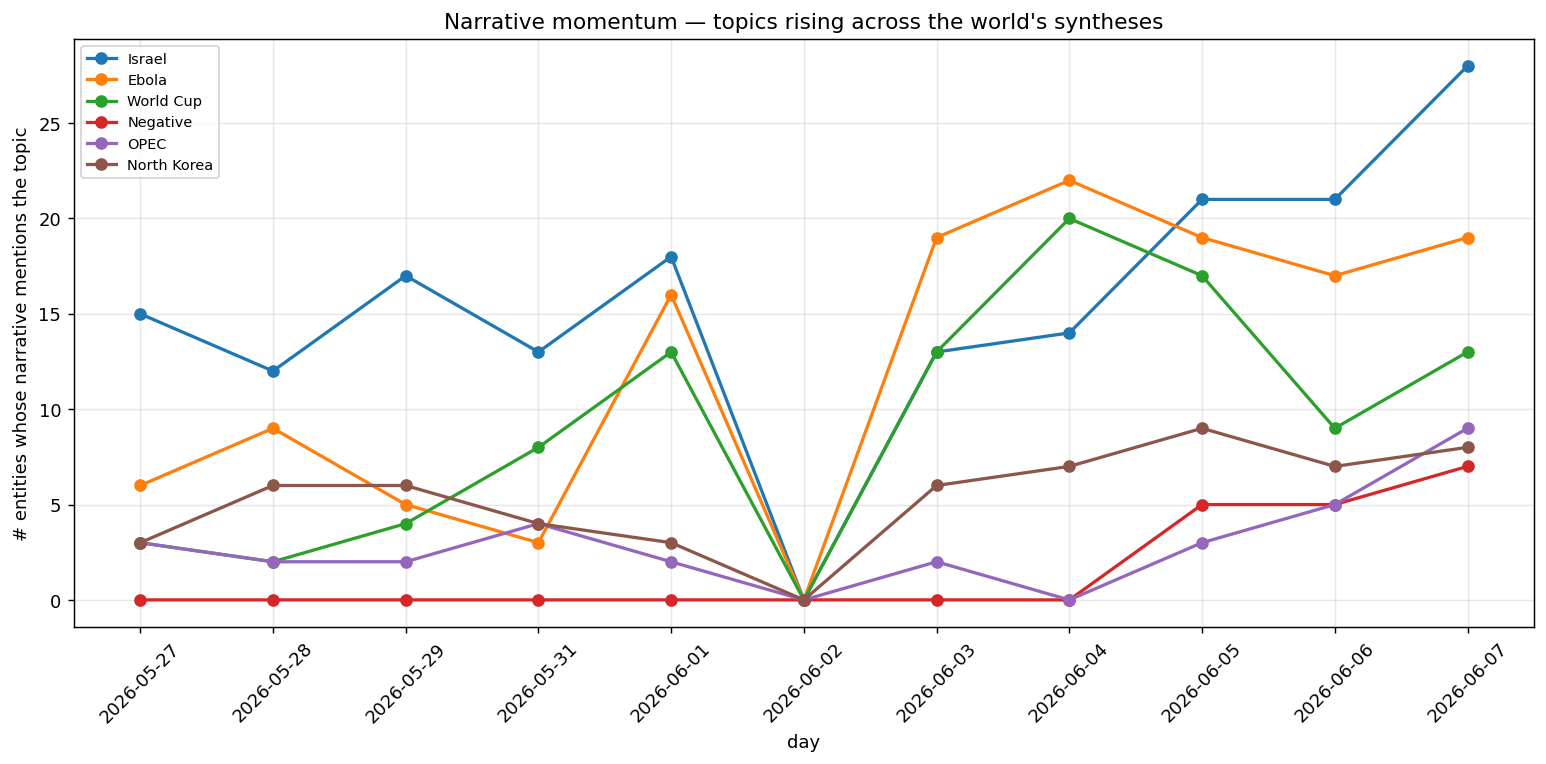
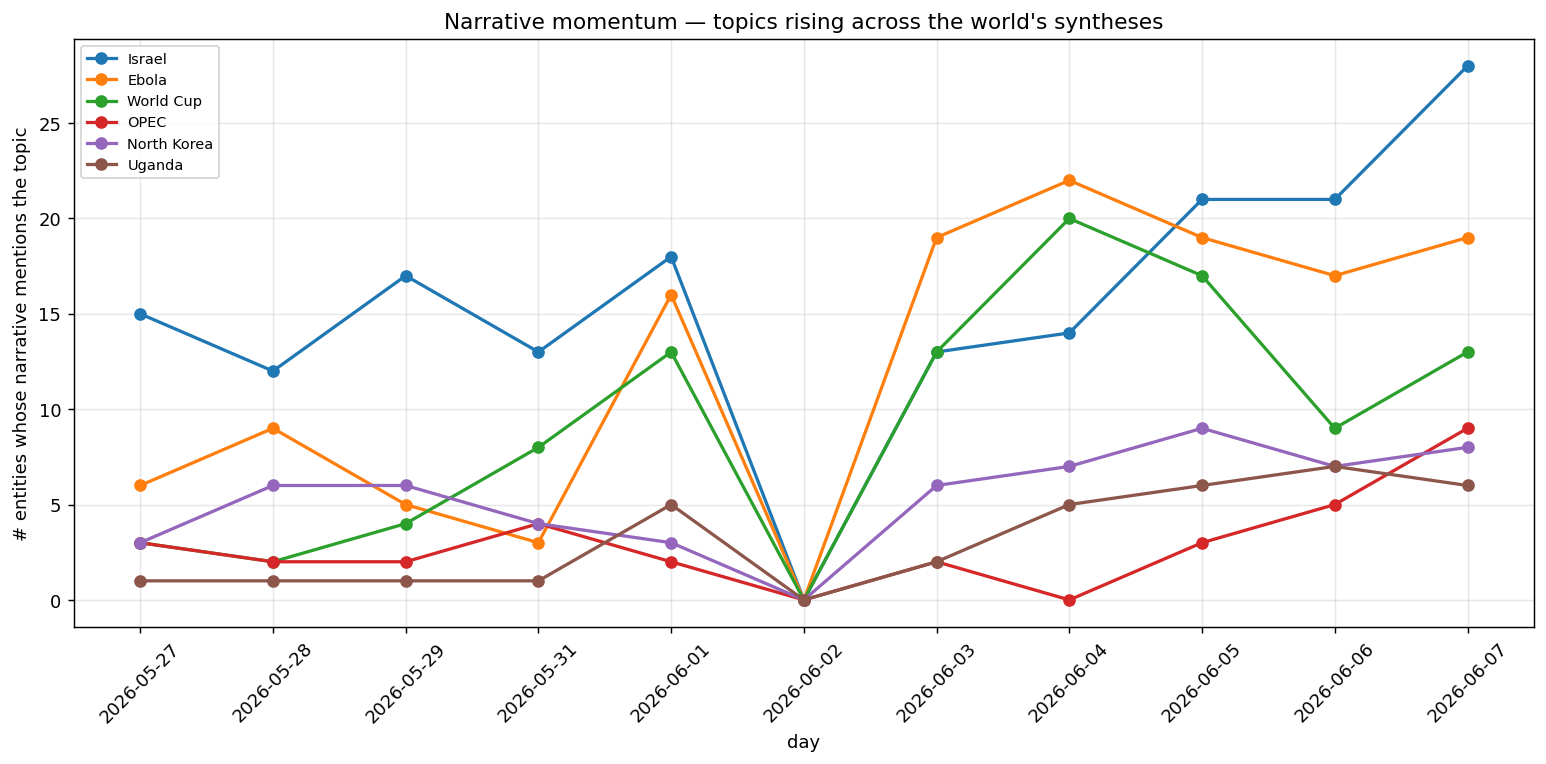
feat: emerging-signals board — denoised, surprise-ranked breakout detector
Answers "I can't see the information": stop showing everything, surface the few
genuine breakouts. emerging_signals() ranks topics that were ~absent early
(baseline of first 3 days) and surged (last 2 days), with breakout day,
trajectory sparkline and which narratives carry them now. Expanded the noise
stoplist (abstract/common nouns) so the list is clean.

It's the new headline tab of the narrative dashboard (a scannable card board) and
the first console section. Surfaces the Africa health cluster (Uganda/WHO/Central
Africa/DR Congo — the Ebola story), the 06-07 OPEC surge, the Gulf widening
(Bahrain), and the Ukraine nuclear-site angle (Zaporizhzhia) — short and legible.

diff --git a/examples/narrative_evolution.py b/examples/narrative_evolution.py
@@ -104,6 +104,43 @@ GENERIC = {
     "Eastern",
     "Northern",
     "Southern",
+    # abstract / common nouns that are noise as "topics"
+    "Negative",
+    "Positive",
+    "Protests",
+    "Violence",
+    "Talks",
+    "Concerns",
+    "Warning",
+    "Warnings",
+    "Report",
+    "Reports",
+    "Statement",
+    "Rising",
+    "Major",
+    "Significant",
+    "Key",
+    "Recent",
+    "Ongoing",
+    "Potential",
+    "Global",
+    "World",
+    "Crisis",
+    "Conflict",
+    "Attack",
+    "Attacks",
+    "Strikes",
+    "Deal",
+    "Summit",
+    "Dialogue",
+    "Meeting",
+    "Forces",
+    "Officials",
+    "Government",
+    "Military",
+    "Economy",
+    "Markets",
+    "Day",
 }
 _TOKEN = re.compile(r"\b(?:[A-Z][a-z]+(?:\s+[A-Z][a-z]+)*|[A-Z]{2,})\b")
 _LEADING = ("The ", "A ", "An ")
@@ -191,6 +228,59 @@ def rising_topics(
     return out
 
 
+def emerging_signals(
+    memory: EventMemory,
+    entities: list[dict],
+    series: dict[str, dict[str, int]],
+    days: list[str],
+    *,
+    min_recent: float = 4.0,
+    max_baseline: float = 2.5,
+    min_surprise: float = 3.0,
+) -> list[dict]:
+    """Denoised, surprise-ranked breakouts: topics ~absent early, prominent now.
+
+    For each topic, compares an early baseline (mean of the first 3 days) to a
+    recent level (mean of the last 2 days). Returns the ones that genuinely
+    surged, with their breakout day, trajectory sparkline and the narratives
+    carrying them now — the short, legible "what's newly rising" board.
+    """
+    last = days[-1]
+    where: dict[str, list[str]] = {}
+    for e in entities:
+        for topic in topics_of(memory, last, e["key"]):
+            where.setdefault(topic, []).append(e["key"])
+
+    def _mean(values: list[int]) -> float:
+        return sum(values) / len(values) if values else 0.0
+
+    def _breakout_day(by_day: dict[str, int]) -> str:
+        best, day0 = 0, days[-1]
+        for i in range(1, len(days)):
+            jump = by_day[days[i]] - by_day[days[i - 1]]
+            if jump > best:
+                best, day0 = jump, days[i]
+        return day0
+
+    out: list[dict] = []
+    for topic, by_day in series.items():
+        baseline = _mean([by_day[d] for d in days[:3]])
+        recent = _mean([by_day[d] for d in days[-2:]])
+        if recent >= min_recent and baseline <= max_baseline and recent - baseline >= min_surprise:
+            out.append(
+                {
+                    "topic": topic,
+                    "breakout_day": _breakout_day(by_day),
+                    "recent": recent,
+                    "surprise": round(recent - baseline, 1),
+                    "spark": "".join(_spark(by_day[d]) for d in days),
+                    "where": sorted(where.get(topic, []))[:6],
+                }
+            )
+    out.sort(key=lambda s: s["surprise"], reverse=True)
+    return out
+
+
 def render_momentum_chart(
     series: dict[str, dict[str, int]], days: list[str], topics: list[str], path: Path
 ) -> None:
@@ -219,6 +309,7 @@ def main() -> None:
     days = memory.dates()
     first, last = days[0], days[-1]
     by_key = {e["key"]: e for e in entities}
+    series = world_series(memory, entities)
 
     def head(t: str) -> None:
         print(f"\n{'=' * 74}\n{t}\n{'=' * 74}")
@@ -227,6 +318,14 @@ def main() -> None:
         f"Narrative evolution over {len(days)} days ({first} → {last}), "
         f"{len(entities)} entities — deterministic extraction, no LLM."
     )
+
+    head("EMERGING SIGNALS  (denoised, ranked by surprise — read this first)")
+    for s in emerging_signals(memory, entities, series, days)[:12]:
+        print(
+            f"  {s['topic'][:22]:<22} ^{s['breakout_day']}  "
+            f"~{s['recent']:.0f} narratives  {s['spark']}"
+        )
+        print(f"     -> {', '.join(s['where'])}")
 
     # spotlight a few high-signal theatres/countries
     spotlight = [
@@ -271,7 +370,6 @@ def main() -> None:
         print(f"  {n:>2} entities  {topic}")
 
     # ---- day-by-day temporal analysis ---------------------------------- #
-    series = world_series(memory, entities)
     rising = rising_topics(series, days)
 
     head("RISING TOPICS  (trajectory across the window, dated)")

diff --git a/examples/build_narrative_dashboard.py b/examples/build_narrative_dashboard.py
@@ -26,6 +26,7 @@ from narrative_evolution import (
     DATA,
     _spark,
     build_memory,
+    emerging_signals,
     rising_topics,
     topics_of,
     world_series,
@@ -80,6 +81,24 @@ def main() -> None:
             stat_card("Topics tracked", str(n_topics)),
             stat_card("Window", f"{first} → {last}"),
         ]
+    )
+
+    # emerging-signals board (the headline: denoised, surprise-ranked breakouts)
+    signals = emerging_signals(memory, entities, series, days)[:12]
+    signal_cards = "".join(
+        f"""
+        <div class="sig">
+          <div class="sig-top">
+            <span class="sig-topic">{html.escape(s["topic"])}</span>
+            <span class="sig-meta">broke out <b>{s["breakout_day"]}</b>
+              · now in <b>~{s["recent"]:.0f}</b> narratives</span>
+          </div>
+          <span class="spark">{s["spark"]}</span>
+          <div class="sig-where">{
+            "".join(f'<span class="chip2">{html.escape(w)}</span>' for w in s["where"])
+        }</div>
+        </div>"""
+        for s in signals
     )
 
     # momentum chart (top rising)
@@ -161,6 +180,7 @@ def main() -> None:
         </div>"""
 
     page = _TEMPLATE.format(
+        signals=signal_cards,
         cards=cards,
         chart=chart,
         rising=rising_tbl,
@@ -222,6 +242,16 @@ _TEMPLATE = """<!doctype html>
     font-variant-numeric:tabular-nums; font-size:13px; }}
   .spark {{ font-family:ui-monospace,Menlo,Consolas,monospace; font-size:15px;
     letter-spacing:1px; color:#0f766e; }}
+  .hint {{ color:var(--muted); font-size:13px; margin:-6px 0 14px; }}
+  .sigs {{ display:grid; grid-template-columns:repeat(auto-fit,minmax(330px,1fr)); gap:14px; }}
+  .sig {{ background:var(--panel); border:1px solid var(--line); border-left:4px solid #0f766e;
+    border-radius:10px; padding:14px; }}
+  .sig-top {{ display:flex; justify-content:space-between; align-items:baseline; gap:8px;
+    flex-wrap:wrap; }}
+  .sig-topic {{ font-size:16px; font-weight:700; }}
+  .sig-meta {{ font-size:12px; color:var(--muted); }}
+  .sig .spark {{ display:block; margin:8px 0; font-size:18px; }}
+  .sig-where {{ margin-top:4px; }}
   .feed-row {{ padding:8px 0; border-bottom:1px solid var(--line); }}
   .feed-day {{ display:inline-block; width:96px; font-weight:600;
     font-variant-numeric:tabular-nums; color:#334155; }}
@@ -252,13 +282,21 @@ _TEMPLATE = """<!doctype html>
   EventGraph stores one graph per day in an EventMemory and diffs the daily topic sets.
 </div>
 <nav>
-  <button class="active" data-tab="momentum">Momentum</button>
+  <button class="active" data-tab="signals">⚡ Emerging signals</button>
+  <button data-tab="momentum">Momentum</button>
   <button data-tab="rising">Rising topics</button>
   <button data-tab="feed">Chronological feed</button>
   <button data-tab="entities">Per entity</button>
 </nav>
 <main>
-  <section class="tab active" id="momentum">
+  <section class="tab active" id="signals">
+    <h2 class="section">Emerging signals — what's newly rising (read this first)</h2>
+    <p class="hint">Denoised, ranked by surprise: topics ~absent early that surged.
+      Each shows when it broke out, how many narratives carry it, its trajectory,
+      and where it spread.</p>
+    <div class="sigs">{signals}</div>
+  </section>
+  <section class="tab" id="momentum">
     <h2 class="section">Overview</h2>
     <div class="grid">{cards}</div>
     <div class="panel">{chart}</div>

diff --git a/reports/world_observer_narrative_evolution.md b/reports/world_observer_narrative_evolution.md
@@ -9,7 +9,6 @@ _How WO's LLM syntheses drifted between **2026-05-27** and **2026-06-07**: which
 | Israel | 2026-05-27 | 15 → 28 |
 | Ebola | 2026-05-27 | 6 → 19 |
 | World Cup | 2026-05-27 | 3 → 13 |
-| Negative | 2026-06-05 | 0 → 7 |
 | OPEC | 2026-05-27 | 3 → 9 |
 | North Korea | 2026-05-27 | 3 → 8 |
 | Uganda | 2026-05-27 | 1 → 6 |
@@ -21,18 +20,19 @@ _How WO's LLM syntheses drifted between **2026-05-27** and **2026-06-07**: which
 | Kenya | 2026-05-27 | 1 → 5 |
 | Latin American | 2026-05-28 | 0 → 4 |
 | Central Africa | 2026-06-01 | 0 → 4 |
+| Belt | 2026-06-01 | 0 → 4 |
 
 ## Chronological feed (topics first reaching 2+ narratives, by day)
 
 - **2026-05-27** — Iran, China, Russia, NATO, Hormuz, India, Ukraine, Israel
-- **2026-05-28** — United States, Washington, Uzbekistan, Serbia, Political, Ongoing, Mandeb Strait, Gripen
-- **2026-05-29** — Romania, South American, Malian, World, Vietnam, Pratas Islands, Five South American, Economic
+- **2026-05-28** — United States, Washington, Uzbekistan, Serbia, Political, Mandeb Strait, Gripen, Federal Reserve
+- **2026-05-29** — Romania, South American, Malian, Vietnam, Pratas Islands, Five South American, Economic, Capricorn Bioceanic Corridor
 - **2026-05-31** — Singapore, Beaufort Castle, Beirut, Analysts, Paris Saint, Netanyahu, IAEA, Germain
 - **2026-06-01** — Uganda, Two, Shabaab, Austria, Yvette Cooper, Kidal, Colombia, Belgium
 - **2026-06-03** — Four, Belarusian, Zaporozhye Nuclear Power Plant, USS, UNICEF, Pandemic Fund, OECD, Nimitz
 - **2026-06-04** — Vaca Muerta, South America, Antelope Reef, Vadinar, Sudanese, South African President Ramaphosa, Royal Navy, Resource
-- **2026-06-05** — Defense, Negative, Trans, Texas, Libya, Department, Traditional, Supreme Leader
-- **2026-06-06** — Defense Secretary Pete Hegseth, Tribesmen, St Petersburg, Kramatorsk, Khyber, Fitch Ratings, Day, AFCON
+- **2026-06-05** — Defense, Trans, Texas, Libya, Department, Traditional, Supreme Leader, Saharan
+- **2026-06-06** — Defense Secretary Pete Hegseth, Tribesmen, St Petersburg, Kramatorsk, Khyber, Fitch Ratings, AFCON, Xenophobic
 - **2026-06-07** — Chornobyl, Mexican, London, Zelensky, Yemeni, Wildland, Wales, WWDC
 
 ## What entered / faded per narrative
@@ -51,7 +51,7 @@ _How WO's LLM syntheses drifted between **2026-05-27** and **2026-06-07**: which
 
 ### israel_gaza
 
-- **Entered:** Bab, Iran, Mandeb, Ongoing, West Bank
+- **Entered:** Bab, Iran, Mandeb, West Bank
 - **Faded:** Adha, Hamas, Lebanon, Palestinians
 - **Core (persisted):** Eid, Gaza, Israel
 
@@ -94,6 +94,6 @@ _How WO's LLM syntheses drifted between **2026-05-27** and **2026-06-07**: which
 | Ukraine | 7 |
 | Pakistan | 7 |
 | NATO | 7 |
-| Negative | 7 |
 | France | 7 |
 | LNG | 6 |
+| Taiwan | 6 |

diff --git a/README.md b/README.md
@@ -316,15 +316,17 @@ Entry timeline — gulf_iran
 
 ![Narrative momentum — topics rising across the world's syntheses](assets/narrative_momentum.png)
 
-A self-contained HTML dashboard puts it all together — momentum chart, dated
-rising topics with trajectory sparklines, a chronological feed, and per-entity
-enter/fade/timeline:
+A self-contained HTML dashboard puts it all together. Its headline tab is an
+**Emerging-signals board** — denoised, ranked by surprise: each card is a topic
+that was ~absent early and surged, with the day it broke out, how many of the 197
+narratives now carry it, a trajectory sparkline, and where it spread. (Other tabs:
+momentum chart, dated rising topics, chronological feed, per-entity timelines.)
 
 ```bash
 python examples/build_narrative_dashboard.py   # → reports/eventgraph_narrative_dashboard.html
 ```
 
-![Narrative dashboard — rising topics with sparklines](assets/narrative_dashboard_rising.png)
+![Narrative dashboard — emerging-signals board](assets/narrative_dashboard.png)
 
 ### Tracking change over time with `EventMemory`
 